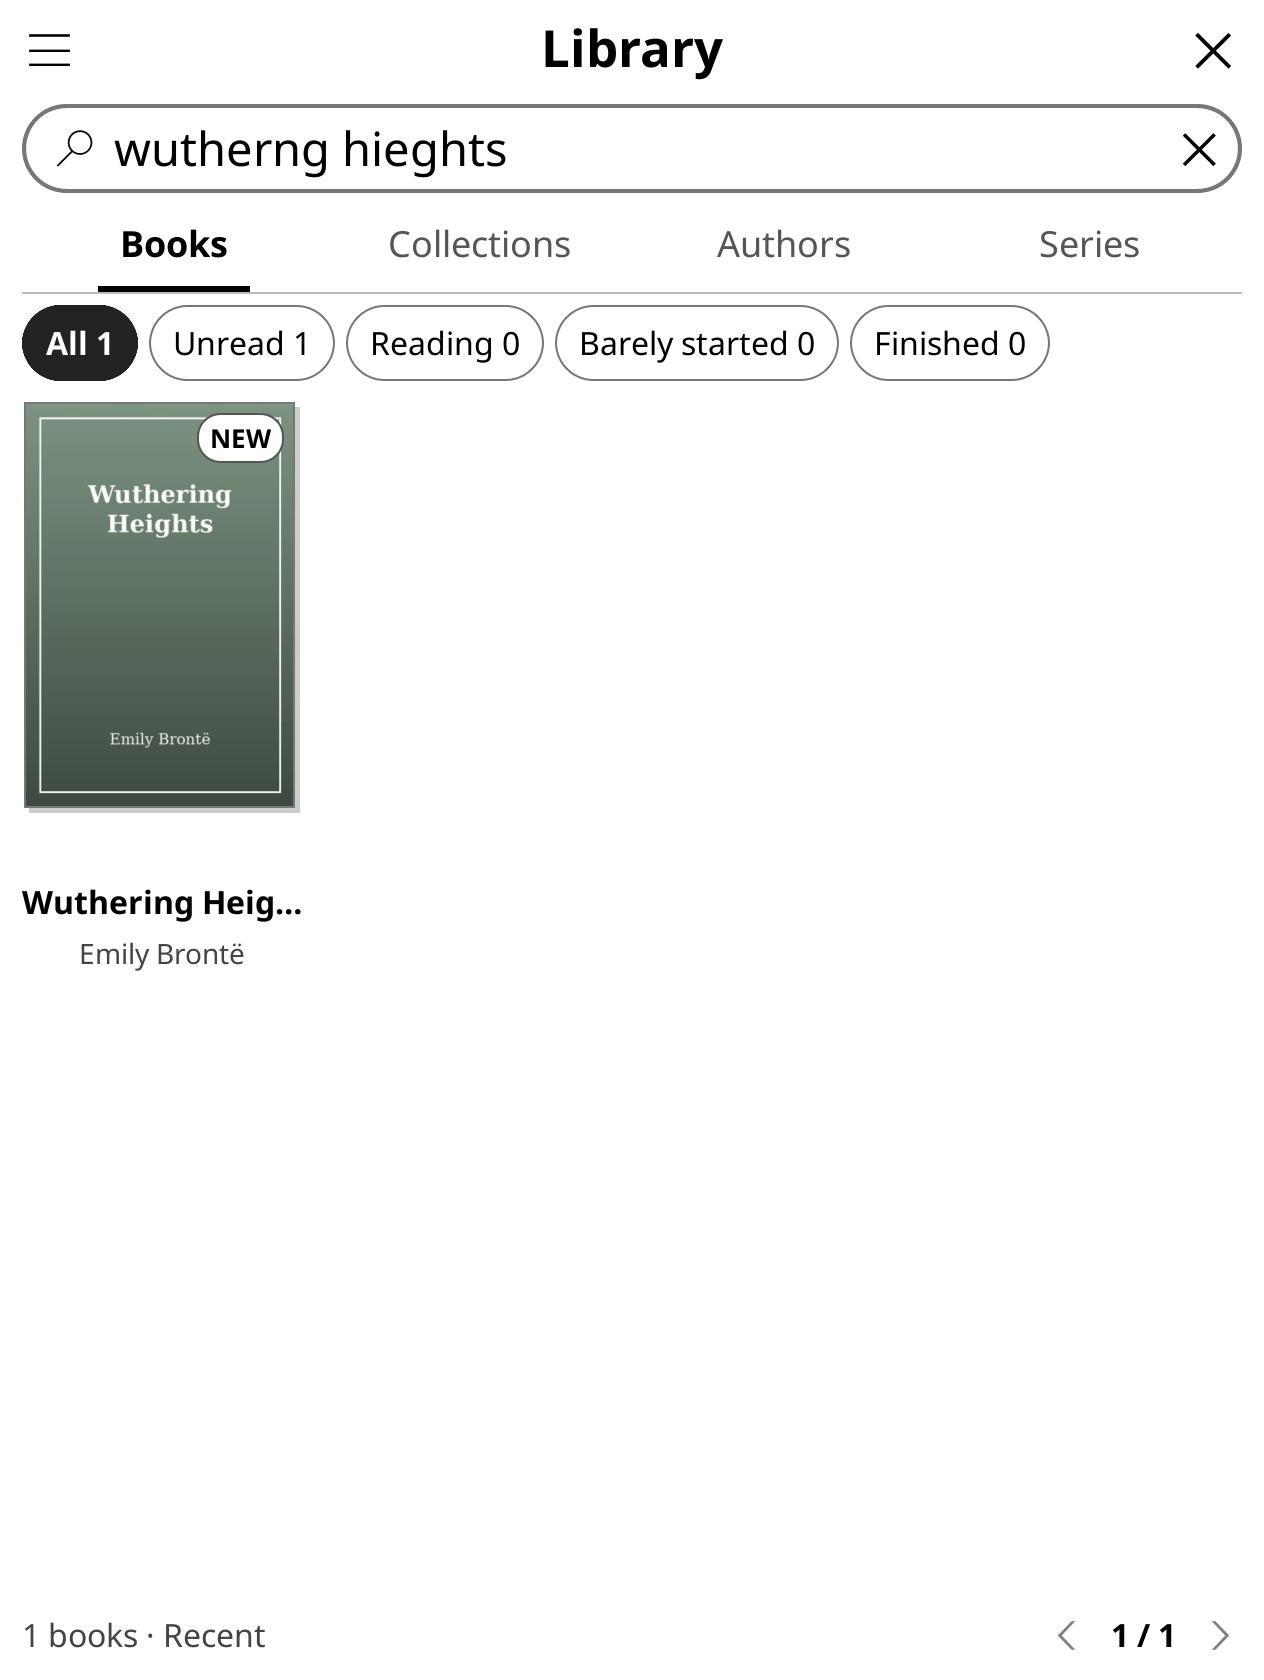
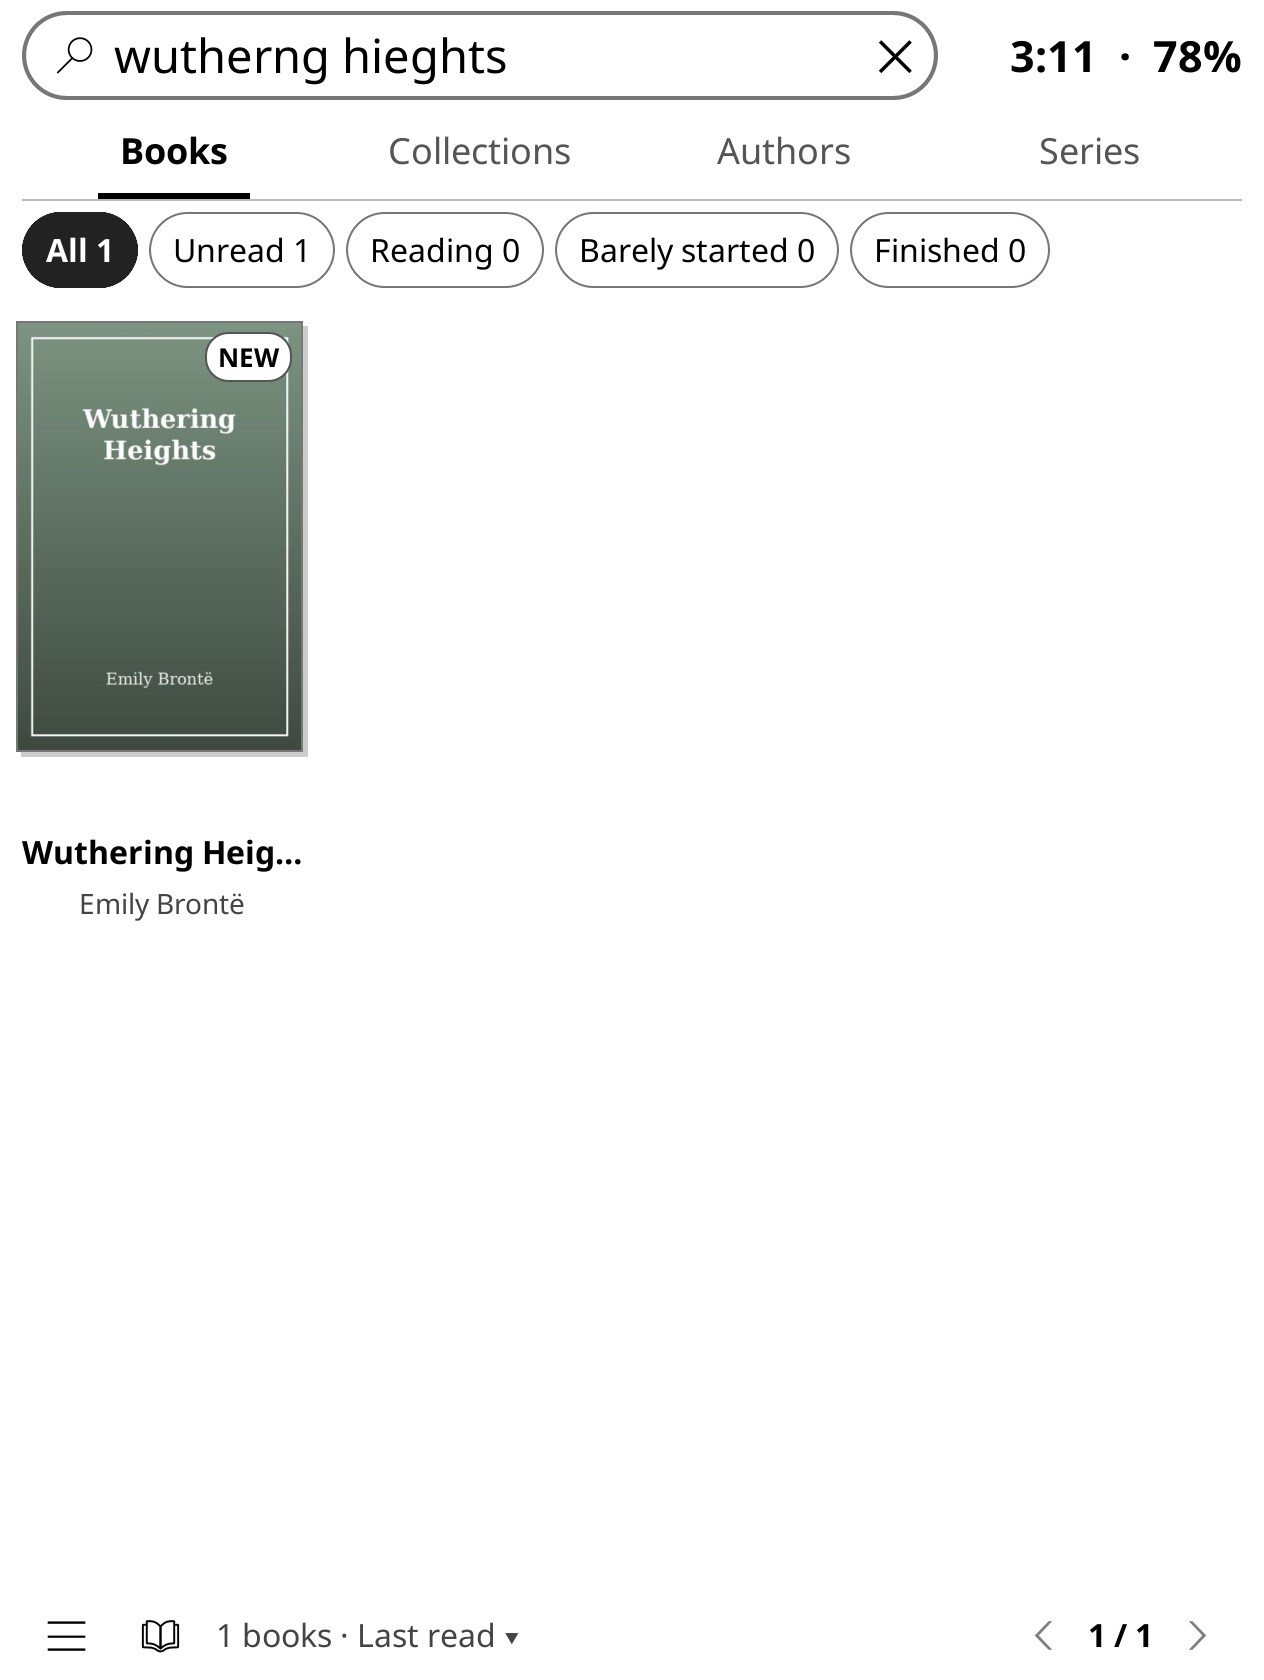
README: retake all screenshots on v0.3.4, hero shot, refreshed feature list
All screenshots retaken in the emulator at 1264x1680 on current main, with
the search bar, clock and battery on top and the menu and Resume in the
footer. New: 19-go-to-page, 20-recently-opened. The README leads with the
Books screen, and the feature list matches what v0.3.4 does.

diff --git a/README.md b/README.md
@@ -1,53 +1,57 @@
 # Library GUI for KOReader
 
-Library GUI (`library.koplugin`) is a KOReader plugin that replaces the file browser with a library screen that looks and works more like the Kindle's own home screen: book covers with reading progress, a search bar at the top, tabs for Books, Collections, Authors and Series, and a quick settings panel you pull down from the corner.
+Library GUI (`library.koplugin`) is a KOReader plugin that replaces the file browser with a library screen that looks and works more like the Kindle's own home screen: book covers with reading progress, a search bar with the clock and battery at the top, tabs for Books, Collections, Authors and Series, the menu and Resume buttons in the footer, and a Controls panel you pull down from the top-right corner.
 
 It sits alongside KOReader's file browser, History and Collections. It never moves or renames your books, and closing it takes you back to the normal file browser.
 
-| Books, covers | Compact · 2 columns | Controls panel |
+<p align="center"><img src="docs/screenshots/16-books-header-footer.png" width="420" alt="Books tab: search bar, clock and battery on the top row, Continue reading row of covers, and the menu, Resume, sort label and page number in the footer"></p>
+
+## Screenshots
+
+| Compact · 2 columns | Compact with dates | Recently opened |
 |---|---|---|
-| ![Books tab with covers and the Continue reading row](docs/screenshots/01-books-covers.png) | ![Compact view in two columns](docs/screenshots/02-compact-2-columns.png) | ![Controls panel with brightness and warmth sliders](docs/screenshots/09-controls-panel.png) |
+| ![Compact view in two columns, sorted by Last read](docs/screenshots/02-compact-2-columns.png) | ![Compact view sorted by Last read, with dates](docs/screenshots/03-compact.png) | ![The top row switched to Recently opened](docs/screenshots/20-recently-opened.png) |
 
 | Authors | Series | Search with typos |
 |---|---|---|
-| ![Authors tab as a list](docs/screenshots/04-authors.png) | ![Series tab with covers](docs/screenshots/05-series.png) | !["wutherng hieghts" still finds Wuthering Heights](docs/screenshots/06-search-typos.png) |
+| ![Authors tab as a list with a book count for each author](docs/screenshots/04-authors.png) | ![Series tab with covers and progress for each series](docs/screenshots/05-series.png) | !["wutherng hieghts" still finds Wuthering Heights](docs/screenshots/06-search-typos.png) |
 
-| Sort from the footer | View picker in the ☰ menu | Compact with dates |
+| Sort from the footer | The ☰ menu | Controls panel |
 |---|---|---|
-| ![Sort picker opened from the footer label](docs/screenshots/07-sort-picker.png) | ![The ☰ menu with the view picker](docs/screenshots/08-menu-view-picker.png) | ![Compact view sorted by Last read, with dates](docs/screenshots/03-compact.png) |
+| ![Sort picker opened from the footer label](docs/screenshots/07-sort-picker.png) | ![The ☰ menu: sort, view, Barely started, Start with Library, Show clock, Show battery and Use KOReader's keyboard](docs/screenshots/18-menu-settings.png) | ![Controls panel with brightness and warmth sliders and Light, Night mode, Refresh, Wi-Fi, Rotate and Cover sleep buttons](docs/screenshots/09-controls-panel.png) |
 
-| Genres (new in 0.3.2) | Inside a genre | Library in the reader menu (new in 0.3.2) |
+| Genres | Inside a genre | Go to page |
 |---|---|---|
-| ![Collections tab switched to Genres, with a cover and book count for each genre](docs/screenshots/10-genres.png) | ![The Mystery & Thriller genre opened, showing its books](docs/screenshots/11-genre-books.png) | ![KOReader's reader menu with Library at the top](docs/screenshots/12-reader-menu-library.png) |
+| ![Collections tab switched to Genres, with a cover and book count for each genre](docs/screenshots/10-genres.png) | ![The Mystery & Thriller genre opened, showing its books](docs/screenshots/11-genre-books.png) | ![Go to page dialog opened from the page number in the footer](docs/screenshots/19-go-to-page.png) |
 
-| Book details (new in 0.3.3) | A book with no description | Book details from inside a book |
+| Book details | A book with no description | Library in the reader menu |
 |---|---|---|
-| ![Book details card with cover, progress, Continue, genre chips and the full description](docs/screenshots/13-details-card.png) | ![Book details card for a book with no description](docs/screenshots/14-details-card-none.png) | ![The same card opened from the reader menu](docs/screenshots/15-details-card-reader.png) |
+| ![Book details card with cover, progress, Continue, genre chips and the Calibre description](docs/screenshots/13-details-card.png) | ![Book details card for a book with no description](docs/screenshots/14-details-card-none.png) | ![KOReader's reader menu with Library and Book details at the top, and the Library tab icon on the left](docs/screenshots/12-reader-menu-library.png) |
 
-| Search, clock and footer (new in 0.3.4) | Clock and battery off | Settings in the ☰ menu |
-|---|---|---|
-| ![Books tab: search bar and clock on the top row, menu and Resume in the footer](docs/screenshots/16-books-header-footer.png) | ![The same screen with the clock and battery turned off](docs/screenshots/17-books-status-off.png) | ![The ☰ menu with Show clock, Show battery and Use KOReader's keyboard](docs/screenshots/18-menu-settings.png) |
+| Clock and battery off |
+|---|
+| <img src="docs/screenshots/17-books-status-off.png" width="300" alt="The Books tab with the clock and battery turned off"> |
 
-The screenshots were taken in the KOReader emulator at the Kindle Colorsoft's screen size (1264×1680), with a library of public-domain books. Pictures 01–15 still show the old title row. The search bar is now the top row, and the menu and Resume buttons are in the footer (16–18).
+The screenshots were taken in the KOReader emulator at the Kindle Colorsoft's screen size (1264×1680), with a library of public-domain books and generated covers, on v0.3.4.
 
 ## Features
 
-- **Search** is the top row of every tab, so the old "Library" title row is gone and that space is used for books. It filters as you type and searches whatever the tab shows: books on Books, author names on Authors, series on Series, collection names on Collections, and only that shelf's books inside an author, series or collection. Small typos, missing accents and punctuation are forgiven, so `charlote bronte` finds Charlotte Brontë. **Use KOReader's keyboard** (off unless you turn it on, in the ☰ menu) opens KOReader's own text box for the search instead of the Library keyboard.
-- **Filters**: All, Unread, Reading, Barely started and Finished, each with a count.
-- **Sort** by Author, Title, Date added, Last read or Series. Tap the label in the footer (*202 books · Last read ▾*) to change it.
-- **Views**: Small, Medium or Large covers, List, Compact, and Compact · 2 columns. The view, sort and filter are remembered for each tab and each author, series or collection you open.
-- **Dates**: sorted by Last read or Date added, each book shows its date (*3h ago*, *Yesterday*, *12 Oct*). Under Last read, books you've never opened follow in author order.
-- **Continue reading**: a row of the books you are in the middle of, at the top of the Books tab. Tap one and it opens on the page you were on.
+- **Search** is the top row of every tab. It filters as you type and searches whatever the tab shows: books on Books, author names on Authors, series on Series, collection names on Collections, and only that shelf's books inside an author, series or collection. Small typos, missing accents and punctuation are forgiven, so `charlote bronte` finds Charlotte Brontë (**Typo-tolerant search**, on by default). **Use KOReader's keyboard** (off unless you turn it on, in the ☰ menu) opens KOReader's own text box for the search instead of the Library keyboard.
 - **Clock and battery** beside the search bar. **Show clock** and **Show battery** are in the ☰ menu, both on unless you turn one off. The clock changes when the Library redraws, and once a minute while it is on screen. If the device does not report a battery percentage, that part is left out.
-- **Menu and Resume** are buttons in the footer, next to the page number and the sort label, instead of small targets in the top corners. Resume opens the book you read last. Swipe down from the top-right corner still opens Controls.
-- **Recently opened**: switch the top row to show the last five books you opened instead, finished ones included.
+- **Footer**: the ☰ menu and Resume buttons, the book count and sort (*201 books · Last read ▾*), and the page number with arrows. Resume opens the book you read last; long-press it to see which book that is.
+- **Filters**: All, Unread, Reading, Barely started and Finished, each with a count. Barely started means opened but under 5, 10, 20 or 25 % read; pick the cut-off in the ☰ menu.
+- **Sort** by Author, Title, Date added, Last read or Series. Tap the label in the footer to change it, or use the ☰ menu.
+- **Views**: Small, Medium or Large covers, List, Compact, and Compact · 2 columns. The view, sort and filter are remembered for each tab and each author, series or collection you open (**Reset default layout** in the ☰ menu forgets them).
+- **Dates**: sorted by Last read or Date added, each book shows its date (*3h ago*, *Yesterday*, *12 Oct*). Under Last read, books you've never opened follow in author order.
+- **Continue reading**: a row of the books you are in the middle of, at the top of the Books tab. Tap one and it opens on the page you were on. **Show Recently opened** switches the row to the last five books you opened instead, finished ones included.
 - **Collections and Series** as tabs. A series lists its books in order, and swiping past its last page opens the next series.
 - **Genres**: a Collections | Genres switch at the top of the Collections tab. Genres are grouped from each book's keywords and Calibre tags, with a count and progress for each.
-- **Library from inside a book**: **Library** is the first item in the reader's ☰ menu. It saves your place, closes the book and opens the Library.
-- **Book details**: long-press a book, or choose **Book details** in the reader's ☰ menu, for its cover, progress, genres and the full Calibre description. Tap the author, series, a genre or a collection to open that shelf. It's read-only.
-- **Go to page**: tap the page number in the footer (*1 / 51*) and type a page.
+- **Book details**: long-press a book, or choose **Book details** in the reader's ☰ menu, for its cover, progress, series, genres, collections and the Calibre description. Tap the author, series, a genre or a collection to open that shelf. Along the bottom: **Mark finished** (or **Mark unread**), **More** for KOReader's usual book menu, and **Close**.
+- **Library from inside a book**: **Library** is the first item in the reader's ☰ menu, and there is a Library tab (book icon) in the reader's top menu bar. Both save your place, close the book and open the Library.
+- **Go to page**: tap the page number in the footer (*1 / 50*) and type a page.
 - **Cover sleep screen**: one toggle to show the cover of the book you read last on the sleep screen. Turning it off puts back the sleep screen you had.
-- **Controls panel**: swipe down from the top-right corner for Brightness and Warmth sliders and buttons for Light, Night, Refresh (clears e-ink ghosting), Wi-Fi, Rotate and Cover sleep. Anything your device doesn't have is left out. That corner stays clear of buttons.
+- **Controls panel**: swipe down from the top-right corner for Brightness and Warmth sliders and buttons for Light, Night mode, Refresh (clears e-ink ghosting), Wi-Fi, Rotate and Cover sleep. Anything your device doesn't have is left out.
+- **Start with Library**: open the Library instead of the file browser when KOReader starts, and come back to it after closing a book.
 - **Covers without other plugins.** Library GUI extracts covers itself in the background. If Project: Title or Cover browser is enabled, it reuses their cover cache.
 - **Gestures**: Open Library, Search library, Resume last book, Rescan library, and Next / Previous in series can be assigned under *Taps and gestures*.
 
